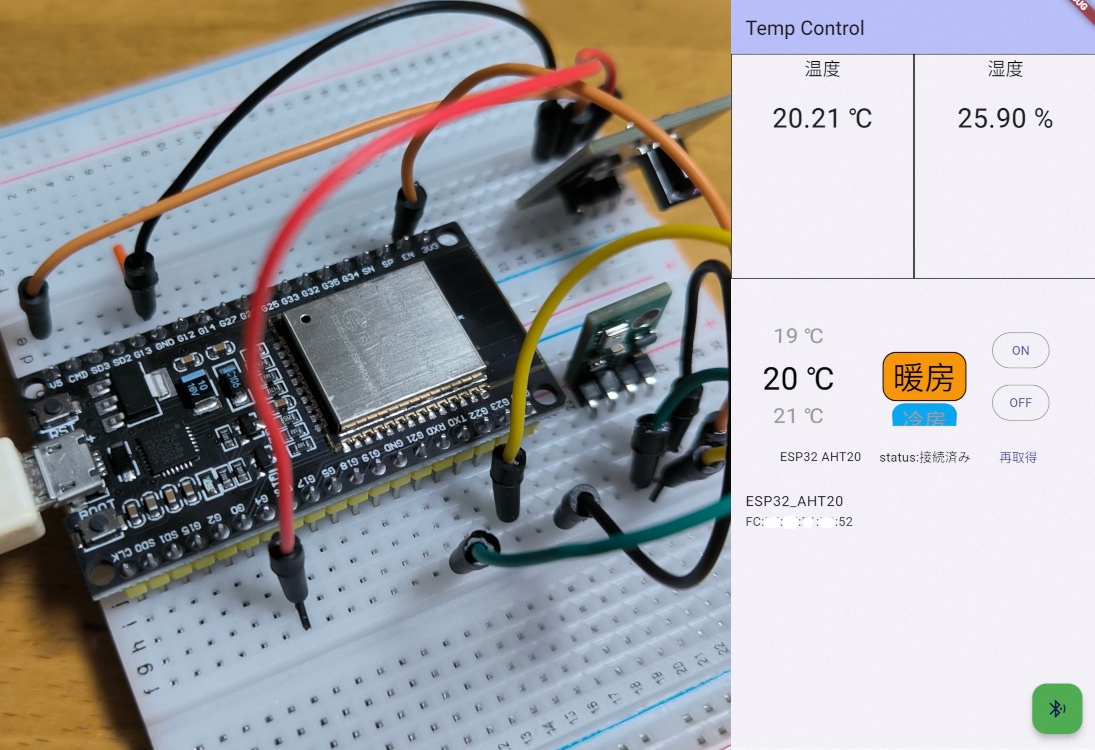
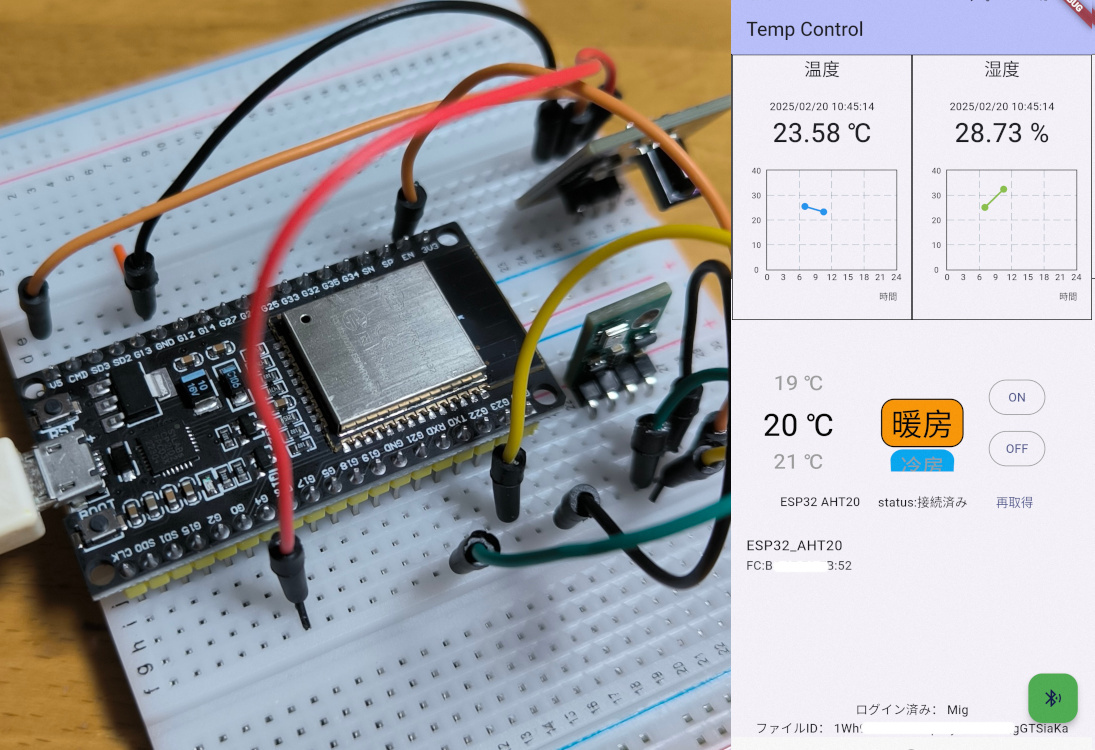
Arduino portfolio更新

diff --git a/app/templates/Portfolio.html b/app/templates/Portfolio.html
@@ -117,7 +117,7 @@
 <div class="productItem">
     <div class="productCategory">- 組み込みシステム開発 -</div>
     <div class="productTitle">温湿度計測・閲覧アプリ</div>
-    <div class="productCaption">Arduino(ESP32)を用いて温度と湿度を計測し、BLEを介してスマホで表示するアプリです。</div>
+    <div class="productCaption">Arduino(ESP32)を用いて温度と湿度を計測し、Bluetooth(BLE)を介してスマホで表示するアプリです。<br>WiFi経由でGoogle Drive APIと連携してデータを保存・アクセスしグラフ表示する機能も搭載しました。</div>
     <div class="productTecnique">
         <div class="productArduino">Arduino</div>
         <div class="productFlutter">Flutter</div>      
@@ -142,16 +142,18 @@
     </div>
     <div class="introduction">
         <div class="row"><div class="PRlabel">16Personalities</div><div class="PRvalue">擁護者 ISFJ-T</div></div>
-        <div class="row"><div class="PRlabel">好きなこと</div><div class="PRvalue">パソコンで作業すること、歌を歌うこと、漫画やライトノベルを読むこと、ゲーム、車の運転、散歩</div></div>
+        <div class="row"><div class="PRlabel">好きなこと</div><div class="PRvalue">パソコンで作業すること、歌を歌うこと、漫画やライトノベルを読むこと、ゲーム、車の運転、散歩、料理</div></div>
         <div class="row"><div class="PRlabel">好きなスポーツ</div><div class="PRvalue">バドミントン、バスケットボール</div></div>
         <div class="row"><div class="PRlabel">保有資格</div><div class="PRvalue">基本情報技術者、G検定、JSTQB FL</div></div>
         <div class="row"><div class="PRlabel">GitHub</div><div class="PRvalue"><a href="https://github.com/MigsFac">https://github.com/MigsFac</a></div></div>
     </div>
     <div class="selfPromotion">
         <p>2005年4月から19年間、病院で技師として勤務。
-        自分の職種を一通り経験し、業務も後輩に任せられるようになったため、以前から興味の強かったエンジニアへの転職を決意しました。<br>
-        前職では、VBAを活用した簡易計算機や日常業務一覧表、業務統計支援のアプリを開発することで日常業務の負担軽減、80%の時間短縮を実現し業務効率化に貢献しました。<br>
-        今は「人に求められるアプリ」「便利なアプリ」「独自性のあるアプリ」などの開発を楽しみ、チームで想いを共有し、顧客に喜んでもらえるエンジニアを目指しています。</p>
+        前職の業務では一通り経験を積み、後輩への引き継ぎも可能になったため、新たな挑戦として以前から興味の強かったモノ作りに携わるエンジニアへの転職を決意しました。<br></p>
+        <p>Excel VBAを活用した簡易計算機や日常業務一覧表、業務統計支援のアプリを開発することで日常業務の負担軽減、80%の時間短縮を実現し業務効率化に貢献しました。<br>
+        業界・職種未経験ですが、ChatGPTや技術ブログを活用して試行錯誤を重ね、複数のアプリを実際に動作する形で実装を行うことができました。</p>
+        <p>現在は資格取得の勉強、アプリ開発を継続しながら技術習得に励んでいます。開発を進める中で、テストの重要性とやりがいも実感し、フルスタックエンジニアを視野に入れつつ、テストエンジニア・QAエンジニアとして経験を積み、品質向上・課題解決を通じて顧客の満足度向上と社会貢献を目指したいと考えています。</p>
+        <p>開発を楽しみ、チームで想いを共有し、顧客に喜んでもらうために全力で取り組んでいきます。</p>
         
         
     </div>
@@ -168,9 +170,9 @@
     <h1 class="titleProduct" id="strings-section">Strength</h1>
     <ul>
         <li class="skillItems">コミュニケーション力</li>
-            先輩・後輩問わず話しやすい雰囲気を作ることで、意見交換やミスの指摘がしやすい環境を整え、チーム全体のパフォーマンス向上に貢献しました。また、意思の疎通のズレをできる限りなくすために、方向性の確認をこまめに行いました。
+            相手の立場を考え、適切な情報提供と円滑な意思疎通を心がけます。<br>誰でも発言しやすい環境作りを意識し、意見交換の活発化や方向性の確認をこまめに行います。
         <li class="skillItems">状況判断力</li>
-            状況に応じて必要な対応を考え、効率や心情を考慮した柔軟な判断を実践することで状況判断力を養いました。
+            状況に応じて必要な対応を考え、効率や心情を考慮した柔軟な判断を実践することを心がけます。
         <li class="skillItems">学習意欲</li>
             新しい技術や知識の習得、資格の取得にも積極的に取り組み、基本情報技術者試験・G検定・JSTQB FLに合格しました。現在はネットワークの勉強も進めており、継続的にスキルの向上を図っています。
     </ul>

diff --git a/app/templates/Arduino_detail.html b/app/templates/Arduino_detail.html
@@ -23,8 +23,10 @@
 <section>
     <h3>Feature - 主な機能</h3>
     <ul>
-        <li>温度と湿度を計測</li>
-        <li>BLEを介してスマホで表示</li>
+        <li>現在の温度と湿度を計測し、BLEを介してスマホで表示</li>
+        <li>一定時間ごとにWiFi経由でGoogle drive APIと連携して、Googleドライブにcsv保存</li>
+        <li>スマホからGoogleドライブへアクセスし、1日の温度・湿度変化をグラフで表示</li>
+        <li>遠隔（現在はBLE）で赤外線送信を行い、エアコンを操作</li>
              
     </ul>
 </section>
@@ -41,12 +43,12 @@
 <section>
     <h3>Target - 対象</h3>
     <ul>
-        <li>温度、湿度を計測しスマホから閲覧したい方</li>
+        <li>温度、湿度を計測し遠隔でエアコンを操作したい方。1日の温度・湿度変化をグラフで閲覧したい方</li>
     </ul>
     <h3>Purpose - 目的</h3>
-    <p>温度と湿度を計測し、スマホに表示してリアルタイムでモニタリングを行う。</p>
+    <p>温度と湿度を計測し、リアルタイムでスマホに表示、1日の温度・湿度変化のモニタリングを行う。温度を確認し、遠隔でエアコンを操作する。</p>
     <h3>Concept - コンセプト</h3>
-    <p>Arduinoというシンプルな組み込み機器を使用して、Bluetoothによるスマホとの接続を実現。</p>
+    <p>Arduinoというシンプルな組み込み機器を使用して、Bluetoothによるスマホとの接続を実現。Googleドライブを用いることでWiFi経由でAPI連携を行い、温度・湿度変化の記録・閲覧が可能。</p>
     
     <h3>Technique - 使用技術</h3>
     <ul>
@@ -56,7 +58,7 @@
         
     </ul> 
     <h3>Reasons - 技術の選定理由</h3>
-    組み込みシステム開発の学習のため、シンプルで軽量・安価なArduinoを選択。またBLEやWiFiを使用予定のためESP32を選択。
+    組み込みシステム開発の学習のため、シンプルで軽量・安価なArduinoを選択。またBLEやWiFiを使用予定のためESP32を選択。技術としての需要が高いAPI連携を学習するためにGoogle drive APIを使用。
 
     
 </section>
@@ -65,11 +67,11 @@
     <h3>Team - チーム構成</h3>
     <ul><li>１人</li></ul>
     <h3>Period - 開発期間</h3>
-    <ul><li>2週間</li></ul>
+    <ul><li>3週間</li></ul>
     <h3>Issues - 課題</h3>
-    <p>温湿度計が認識せず、半田付けを行う必要があった。Bluetoothの認識がうまくいかず複数のライブラリなどを試しました。</p>
+    <p>温湿度計が認識せず、半田付けを行う必要がありました。Bluetoothの認識がうまくいかず複数のライブラリなどを試しました。また、赤外線送信のコード解析にも苦慮しました。</p>
     <h3>Outlook - 今後の展望</h3>
-    <p>赤外線送信を行うことでエアコンの操作ができるようにすること。温度と湿度を記録しWi-Fi経由でクラウドに保存しAPI連携も行い、スマホ上にグラフ表示する。</p>
+    <p>Arduino本体とエアコンの赤外線送信の届く距離が非常に短いため、トランジスタなどを用いて距離を伸ばす。<br>1日の温度と湿度をスマホ上にグラフ表示しているが、履歴の一覧や異なる日付の表示を実装し、データ解析を考慮。</p>
 </section>
 
 <section>
